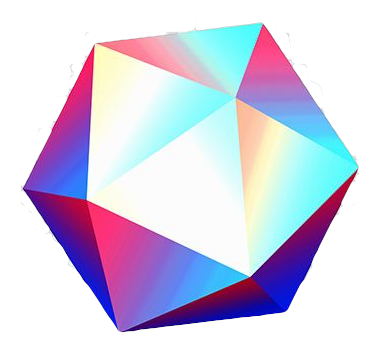
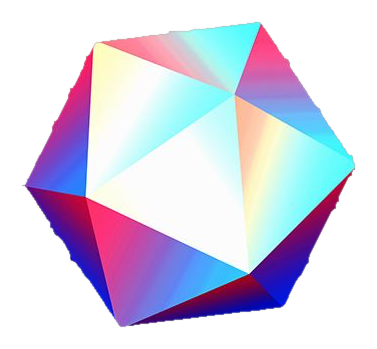
Remove white cutout fringe from gem mark (alpha erosion + defringe)

diff --git a/index.html b/index.html
@@ -107,7 +107,7 @@
     <button class="toggle fade d1" id="toggle" aria-label="Toggle light and dark">&#9790;</button>
 
     <div class="markwrap fade d1">
-      <img class="mark" src="assets/realgems-mark.png" alt="RealGems" width="381" height="353" />
+      <img class="mark" src="assets/realgems-mark.png" alt="RealGems" width="377" height="349" />
     </div>
 
     <div class="wordmark fade d2">RealGems</div>